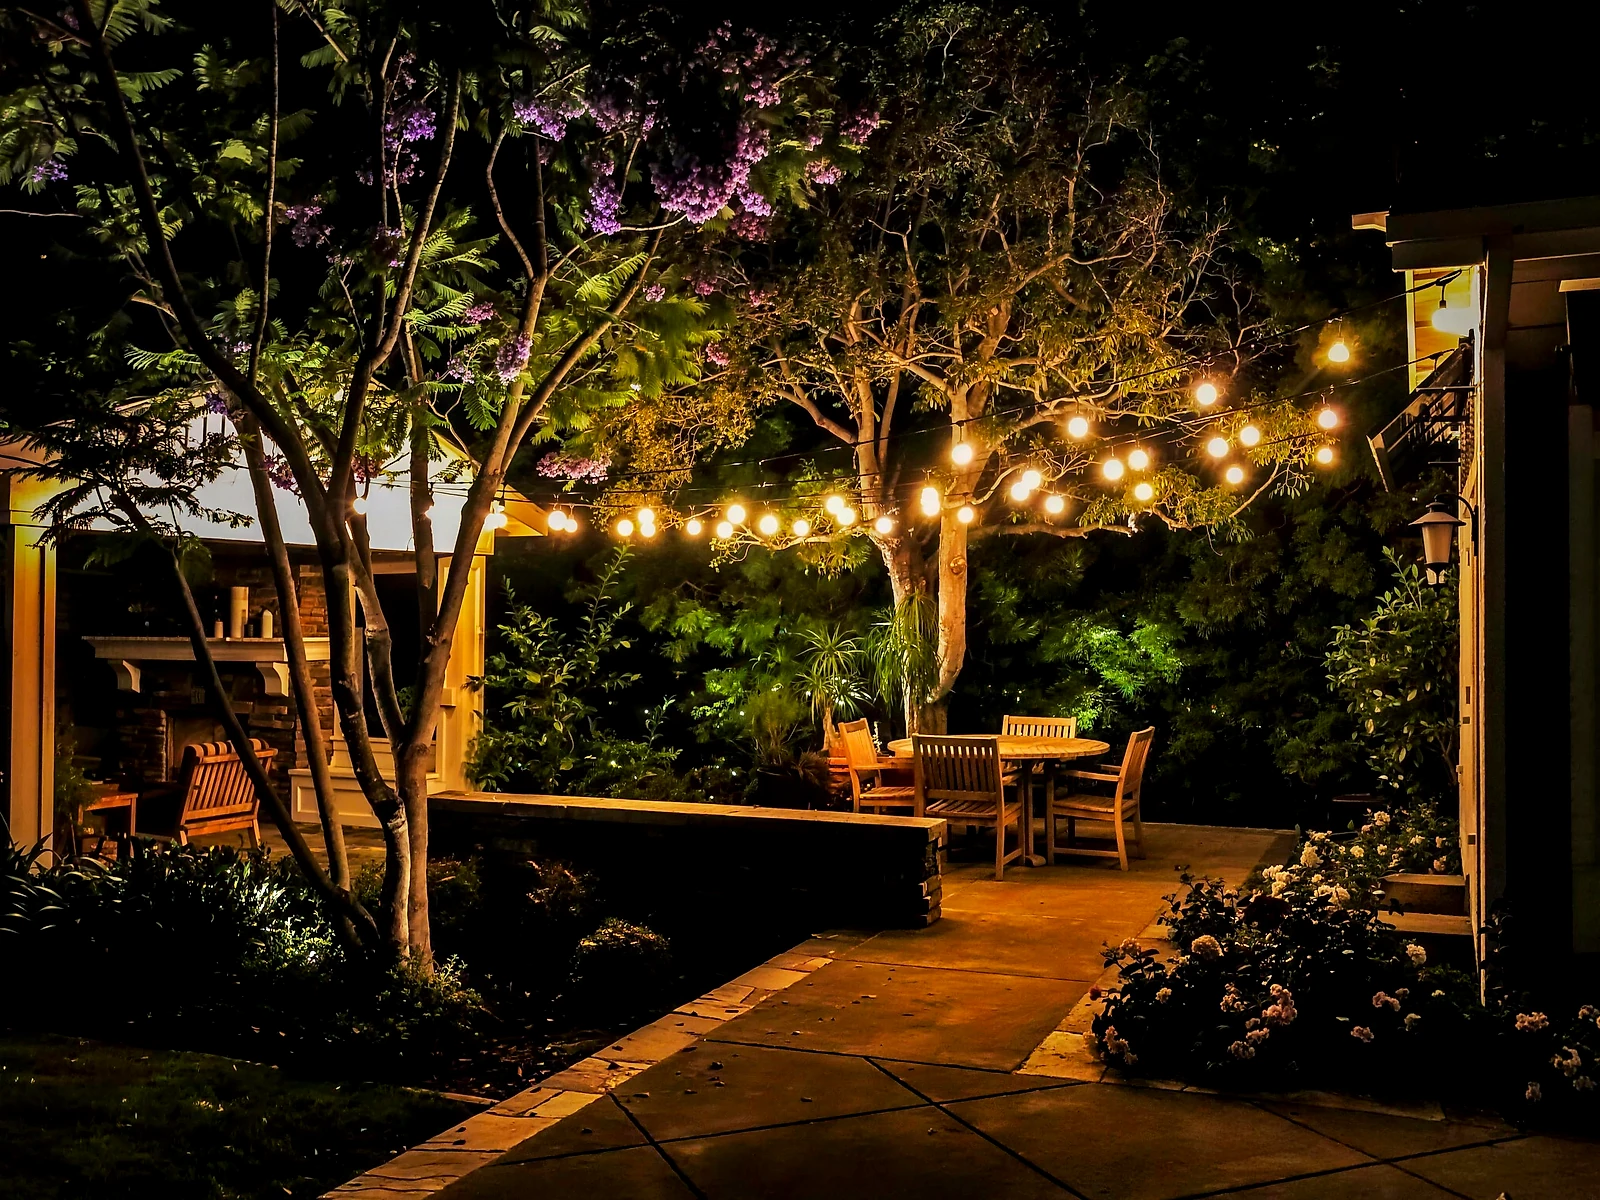
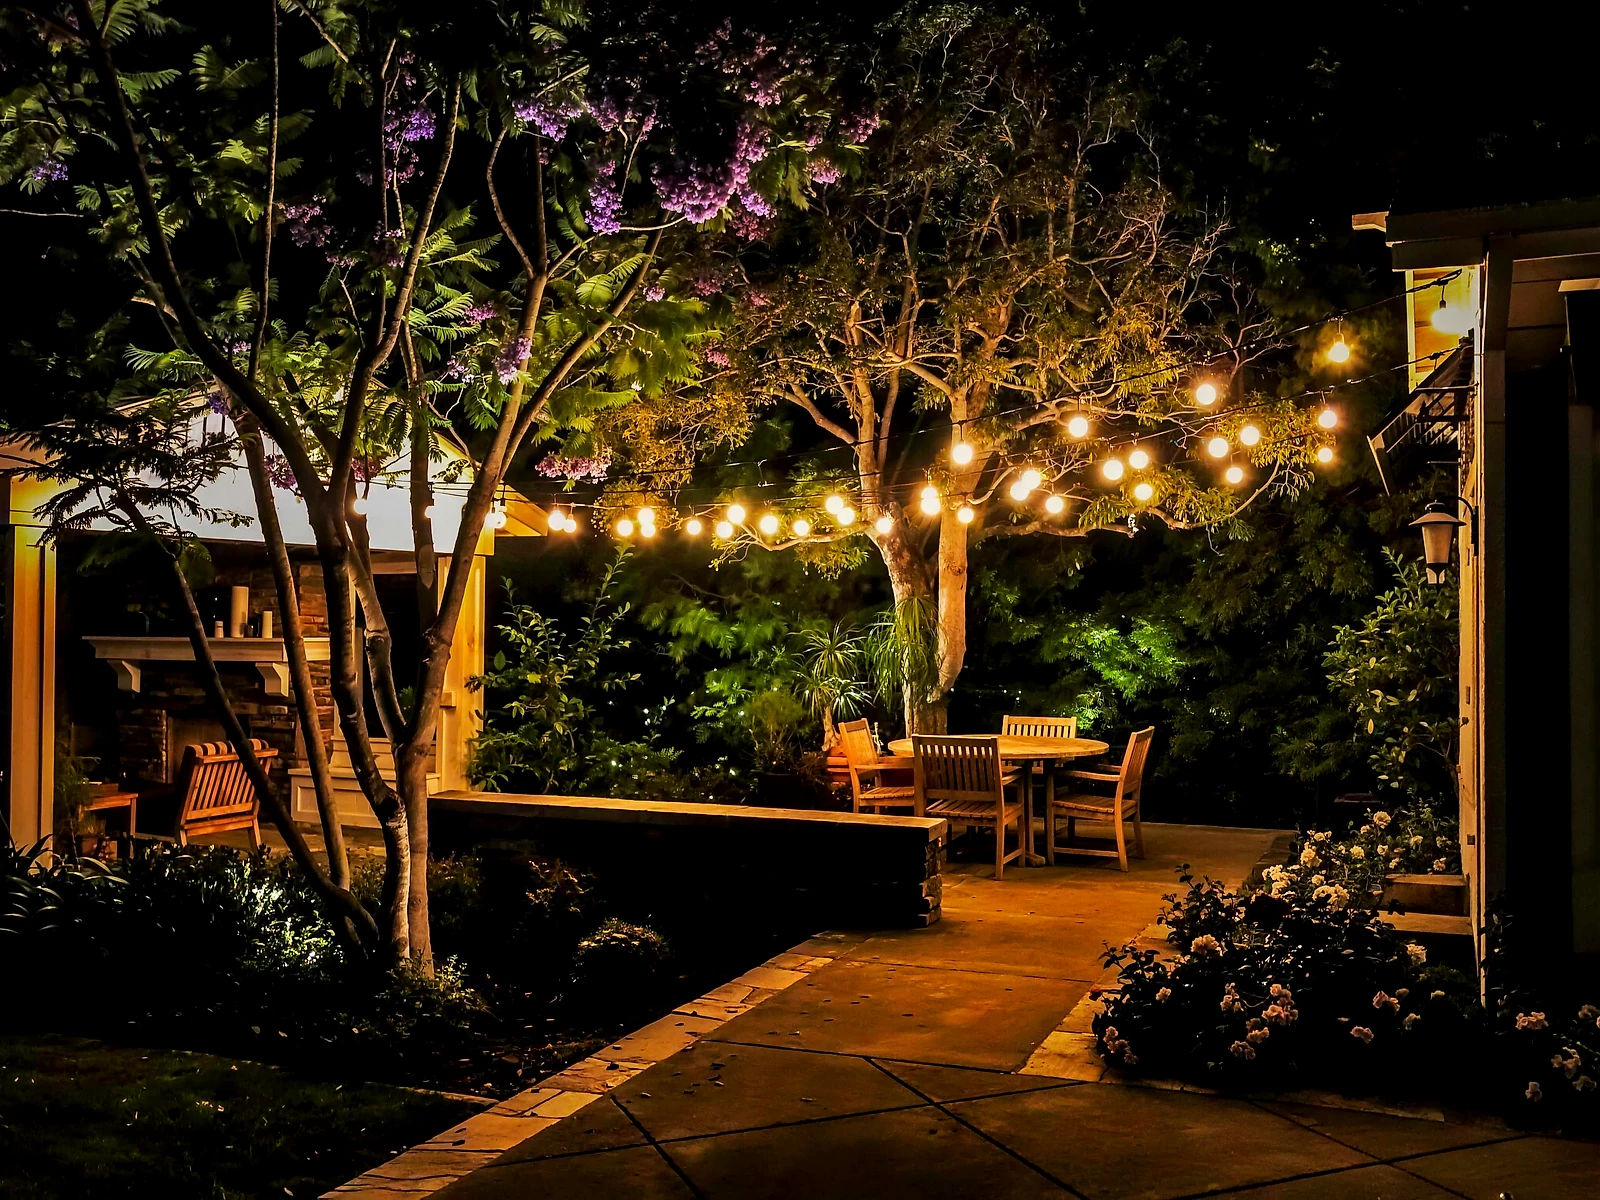
New desktop hero, and three refreshed photos
The owner attached a new set through the Photo Desk. Four of them are
new or changed since the last pass, so each went through the upscaler to
4096px and back down through the enhanced ingest:

  holiday-hero-estate  2400x1584   the row of wrapped live oaks
  hoa-entrance         2400x1596
  bistro-patio         1600x1200
  landscape-lighting   1600x1155

The wrapped oaks become the desktop holiday hero, which is what they were
attached for. Phones keep their own portrait image, untouched.

Also fixes a layout bug introduced by the motion work in the previous
commit. Both hero chips are inline-flex, and wrapping them in a Reveal
put them inside a plain block element, so instead of stacking they sat
side by side on one line. The wrapper is now flex-col.

Claude-Session: https://claude.ai/code/session_01P7njg5ed4uAaKKHQVKvzRE

diff --git a/southeast-lights/src/components/home/hero.tsx b/southeast-lights/src/components/home/hero.tsx
@@ -23,13 +23,13 @@ import { messagingFor, type SeasonMode } from "@/config/season";
 export function Hero({ mode, now }: { mode: SeasonMode; now: Date }) {
   const holiday = mode === "holiday";
   /*
-   * Desktop background. The live oak wrap is the strongest photograph in
-   * the set and it reads at full-bleed width, which a roofline shot does
+   * Desktop background: the owner's chosen hero, a row of fully wrapped
+   * live oaks. It reads at full-bleed width, which a roofline shot does
    * not: a roof crops to a stripe across a 2400px hero, a wrapped canopy
    * fills the frame. Off season the permanent-lighting colour shot takes
    * over. Phones keep their own portrait image below, untouched.
    */
-  const image = holiday ? IMAGES.liveOakWrap : IMAGES.permanentColor;
+  const image = holiday ? IMAGES.holidayHero : IMAGES.permanentColor;
   /*
    * Phones get a portrait photograph of an install in progress. A wide hero
    * crops to a strip on a phone, and the vertical frame is the only shape
@@ -103,7 +103,9 @@ export function Hero({ mode, now }: { mode: SeasonMode; now: Date }) {
          */
         className="container-site relative z-20 flex min-h-[66svh] flex-col justify-start pt-8 pb-14 sm:min-h-[78svh] sm:justify-end sm:pt-28 lg:min-h-[88svh] lg:pt-32 lg:pb-24"
       >
-        <Reveal>
+        {/* flex-col because both chips are inline-flex: inside a plain
+            block wrapper they sit side by side on one line. */}
+        <Reveal className="flex flex-col items-start">
           {/*
            * Two chips, deliberately unequal.
            *
